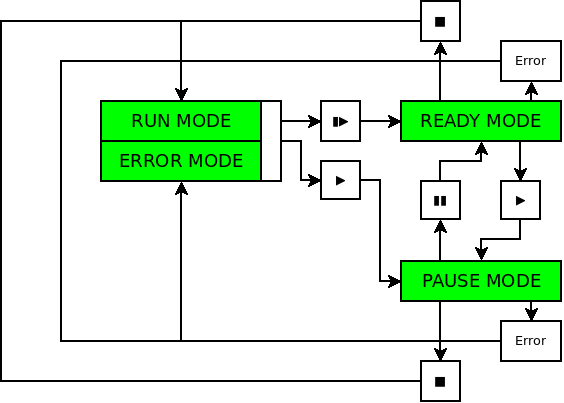
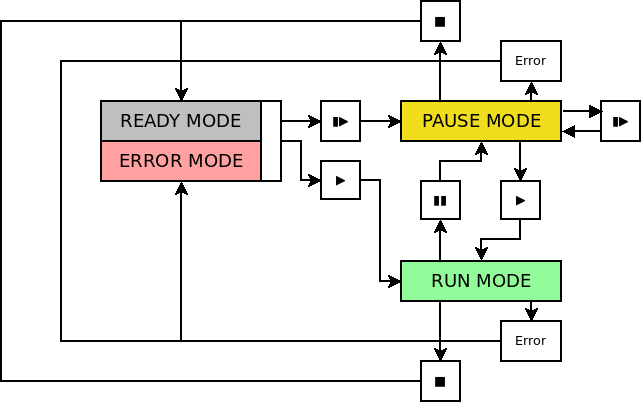
Improved debugger doc intro

Changed region(s): [[0.1507, 0.0, 1.0, 1.0], [0.0904, 0.1489, 0.1206, 0.8635], [0.2713, 0.0596, 0.3316, 0.1489]]

diff --git a/doc/de/chapters/gui/debugger/1-intro.tex b/doc/de/chapters/gui/debugger/1-intro.tex
@@ -51,7 +51,7 @@ Mit den Kontrollelementen kann der Debugger intuitiv und einfach bedient werden.
 	\ding{228} / \ding{122}\thinspace \ding{122} & F5 & Play/Pause & Startet den Debugger/Hält den Debugger an\\
 	\ding{122}\thinspace \ding{228} & F6 & Step & Springt zum nächsten Schritt weiter\\
 	\ding{110} & F7 & Stop & Beendet den Debugger\\
-	--- & --- & Schieberegler & \parbox{7cm}{Ändert die Zeitabstände beim automatischen Debuggen}\\
+	--- & --- & Schieberegler & \parbox{7cm}{Ändert die Zeitabstände beim automatischen Abarbeiten}\\
 	\hline
 \end{tabular}
 \caption{Funktionen der Bedienelemente des Debuggers}\label{tab:deb-ctrl}
@@ -72,42 +72,51 @@ Der Debugger hat vier unterschiedliche Modi, diese wurden bereits in Kapitel \re
 Die vier Zustände sind:
 \begin{enumerate}
 \item \textbf{Text bearbeiten (ready mode)}
+Dies ist der Standardzustand. Der Quelltext und Eingabedaten für den Debugger können bearbeitet werden. Außerdem sind Dateioperationen erlaubt.
+\begin{figure}[h!tp]
+\centering
+\includegraphics[width=0.65\textwidth]{./media/images/gui/debugger/mode-idle.png}
+\caption{Zustandsanzeige für den Editormodus}
+\label{fig:deb-zust-1}
+\end{figure}
 \item \textbf{Fehler aufgetreten (error mode)}
+Beim Compilieren oder während der Laufzeit des Debuggers ist ein Fehler aufgetreten. Um diesen zu beheben, ist das Bearbeiten des Quelltexts nach wie vor erlaubt.
+\begin{figure}[h!tp]
+\centering
+\includegraphics[width=0.65\textwidth]{./media/images/gui/debugger/mode-error.png}
+\caption{Zustandsanzeige für den Fehlermodus}
+\label{fig:deb-zust-2}
+\end{figure}
 \item \textbf{Programm Schritt für Schritt abarbeiten oder Pause (pause mode)}
+Der Debugger ist aktiv, wartet aber auf eine Eingabe des Benutzers, um den nächsten Befehl abzuarbeiten. In diesem Modus kann der Benutzer sein Programm Schritt für Schritt abarbeiten. Das Modifizieren des Quelltextes ist in diesem Modus nicht möglich.
+\begin{figure}[h!tp]
+\centering
+\includegraphics[width=0.65\textwidth]{./media/images/gui/debugger/mode-step.png}
+\caption{Zustandsanzeige für den Pausemodus}
+\label{fig:deb-zust-3}
+\end{figure}
 \item \textbf{Programm automatisch abarbeiten (run mode)}
+Das Programm des Benuters wird Schritt für Schritt abgearbeitet. Zwischen den Befehlen wird für eine bestimmte Zeit zwischen 0 und 5 Sekunden gewartet. Diese Verzögerung kann mit dem Schieberegler bei den Kontrollelementen eingestellt werden. Auch hier kann der Quelltext nicht verändert werden.
+\begin{figure}[h!tp]
+\centering
+\includegraphics[width=0.65\textwidth]{./media/images/gui/debugger/mode-run.png}
+\caption{Zustandsanzeige für den Automatischen Debugmodus}
+\label{fig:deb-zust-4}
+\end{figure}
 \end{enumerate}
 
 \begin{figure}[htp]
 \centering
-\includegraphics[width=0.65\textwidth]{/home/fabian/Dokumente/C--/CMM/doc/de/media/images/gui/debugger/RunModes_Simple.png}
-\caption{Vereinfahctes Zustandsdiagramm des Debuggers}
+\includegraphics[width=0.65\textwidth]{./media/images/gui/debugger/RunModes_Simple.png}
+\caption{Vereinfachtes Zustandsdiagramm des Debuggers}
 \label{fig:deb-zust-simple}
 \end{figure}
 
 Obwohl der Debugger selbst zwischen Modus Editormodus (1) und Fehlermodus (2) unterscheidet, gibt es in der Benutzeroberfläche nur mehr den Editormodus. Der Fehlermodus wird trotzdem im Zustandspanel des Debuggers im Hauptfenster angezeigt, damit der Benutzer auf den aufgetretenen Fehler aufmerksam gemacht wird. Wie in Abbildung \ref{fig:deb-zust-simple} ersichtlich ist, erfüllen die beiden Modi die selben Funktionen.
 
-Mit dem Schieberegler kann der Zeitabstand eingestellt werden, nach beim automatischen Debuggen zum nächsten Schritt gesprungen wird. Die gewählte Zeit wird, je nach zur Verfügung stehendem Platz, neben oder über dem Regler angezeigt.
+Der Pausemodus (3) hat zwei Funktionen: einerseits entspricht dieser Modus einer Pausierung (bezogen auf Zustand 4, in dem der Debugger automatisch durchläuft) und andererseits kann in diesem Modus mit dem mittleren Button auch direkt zum nächsten Schritt gesprungen werden.
 
-\emph{Anmerkung 1:}
-\par
-\begingroup
-\leftskip=1cm % Parameter anpassen
-\noindent Der Pausemodus (3) hat zwei Funktionen: einerseits entspricht dieser Modus einer Pausierung (bezogen auf Zustand 4, in dem der Debugger automatisch durchläuft) und andererseits kann in diesem Modus mit dem mittleren Button auch direkt zum nächsten Schritt gesprungen werden.
-\par
-\endgroup
-
-
-\emph{Anmerkung 2:}
-\par
-\begingroup
-\leftskip=1cm % Parameter anpassen
-\noindent Ein Sonderfall des run mode ist der \glqq{}quick run mode\grqq{}. Wenn der Regler für die Zeitabstände zwischen den Schritten des Debuggers auf null gestellt wird, werden die folgenden Schritte so schnell wie möglich abgearbeitet, bis entweder das Programm zu Ende ist oder der Debugger auf einen \glqq{}wait\grqq{}-Befehl stößt (Siehe Kapitel \ref{}).
-\par
-\endgroup
-%TODO diesen Absatz nochmal lesen
-
-
-%TODO bedienelemente können ausgeblendet werden
+Ein Sonderfall des run mode ist der \glqq{}quick run mode\grqq{}. Wenn der Regler für die Zeitabstände zwischen den Schritten des Debuggers auf null gestellt wird, werden die folgenden Schritte so schnell wie möglich abgearbeitet, bis entweder das Programm zu Ende ist oder der Debugger auf einen \glqq{}wait\grqq{}-Befehl stößt (Siehe Kapitel \ref{}).
 
 %TODO ref commands
 
@@ -118,15 +127,29 @@ Mit dem Schieberegler kann der Zeitabstand eingestellt werden, nach beim automat
 \subsection{Schlüsselwörter}
 %TODO ref compiler
 %TODO ref panelRunListener
-In der Sprache von C Compact gibt es zwei Schlüsselwörter, die zumindest im Endeffekt nicht vom Compiler oder Interpreter, sondern vom Debugger verarbeitet werden.
+In der Sprache von C Compact gibt es zwei spezielle Schlüsselwörter, die Einfluss auf das Verhalten des Debuggers nehmen: \textbf{wait} und \textbf{library}.
 
 \subsubsection*{wait}
 %TODO ref AST
-Dieser Befehl kann an jeder beliebigen Stelle im Programm stehen. Der Compiler baut diesen Befehl als Element im Abstrakten Syntaxbaum ein. Wenn der Debugger diesen Knoten erhält, geht er in den Pause-Modus (3).
+%TODO check version number, ref versions
+In C Compact gibt es seit der Verion 1.2 keine Breakpoints als Option in der Benutzeroberfläche mehr. Anstatt dessen wird der Befehl \textbf{wait} verwendet. Dieser Befehl kann in jeder Funktion verwendet werden. Stößt der Debugger diesen Befehl, geht er in den \textbf{Pausemodus}. An dieser Stelle kann der Debugger dann entweder Schritt für Schritt, oder wieder im automatischen Debugmodus fortgesetzt werden.
+
+\begin{lstlisting}[language=CMM]
+wait;
+\end{lstlisting}
+
+Durch die Umsetzung der Breakpoint-Funktion als Befehl in der Sprache besteht immer ein klarer Zusammenhang zwischen Aktionen des Debuggers und dem Quelltext.
 
 \subsubsection*{library}
-Das Attribut \textbf{library} kann sowohl an einer Variable, als auch an einer Funktion angewandt werden. Das Schlüsselwort muss immer zwischen Typ und Name der Variable bzw. Funktion stehen.
+%TODO read this paragraph
+Funktionen und Variablen können vor dem Debugger \glqq{}versteckt\grqq{} werden. Das Attribut \textbf{library} kann sowohl für eine Variable, als auch für eine Funktion verwendet werden. Das Schlüsselwort muss immer zwischen Typ und Name der Variable bzw. Funktion stehen.
 
+\begin{lstlisting}[language=CMM]
+const float library M_PI    = 3.141592654;
+\end{lstlisting}
 Eine Variable mit dem \textbf{library}-Attribut wird im Debugger nicht angezeigt. Dies wird zum Beispiel verwendet, um die zahlreichen Konstanten der Bibliothek \textbf{math.h} im Debugger auszublenden.
 
-Hat eine Funktion das \textbf{library}-Attribut, springt der Debugger nicht in diese Funktion, sondern arbeitet sie in einem Schritt ab. Dadurch können Bibliotheksfunktionen im Debugger wie einfache Befehle verwendet werden.
+\begin{lstlisting}[language=CMM]
+float library sin(float x);
+\end{lstlisting}
+Hat eine Funktion das \textbf{library}-Attribut, springt der Debugger nicht in diese Funktion, sondern arbeitet sie in einem Schritt ab. Dadurch können Bibliotheksfunktionen im Debugger als Befehl in einem Schritt abgearbeitet werden.

diff --git a/doc/de/chapters/gui/gui-main.tex b/doc/de/chapters/gui/gui-main.tex
@@ -259,7 +259,7 @@ Präfix und Postfix können im Head der der Fehlerbeschreibungsdatei definiert w
 </head>
 \end{lstlisting}
 
-\item \textbf{Schritt für Schritt debuggen:} Der Debugger kann grundsätzlich in zwei unterschiedlichen Modi ausgeführt werden. In diesem Fall wird das Programm so ausgeführt, dass der Benutzer jeden Schritt des Interpreters selbst initiieren muss (durch Druck auf den "Nächster Schritt"-Button oder die Taste F6). Hier ist das Zustandspanel gelb gefärbt. Das Bearbeiten des Source Code ist während der Laufzeit nicht möglich.
+\item \textbf{Schritt für Schritt debuggen:} Der Debugger kann grundsätzlich in zwei unterschiedlichen Modi ausgeführt werden. In diesem Fall wird das Programm so ausgeführt, dass der Benutzer jeden Schritt des Interpreters selbst initiieren muss (durch Druck auf den \glqq{}Nächster Schritt\grqq{}-Button oder die Taste F6). Hier ist das Zustandspanel gelb gefärbt. Das Bearbeiten des Source Code ist während der Laufzeit nicht möglich.
 %TODO ist F6 korrekt???
 %TODO refer to debugger
 
